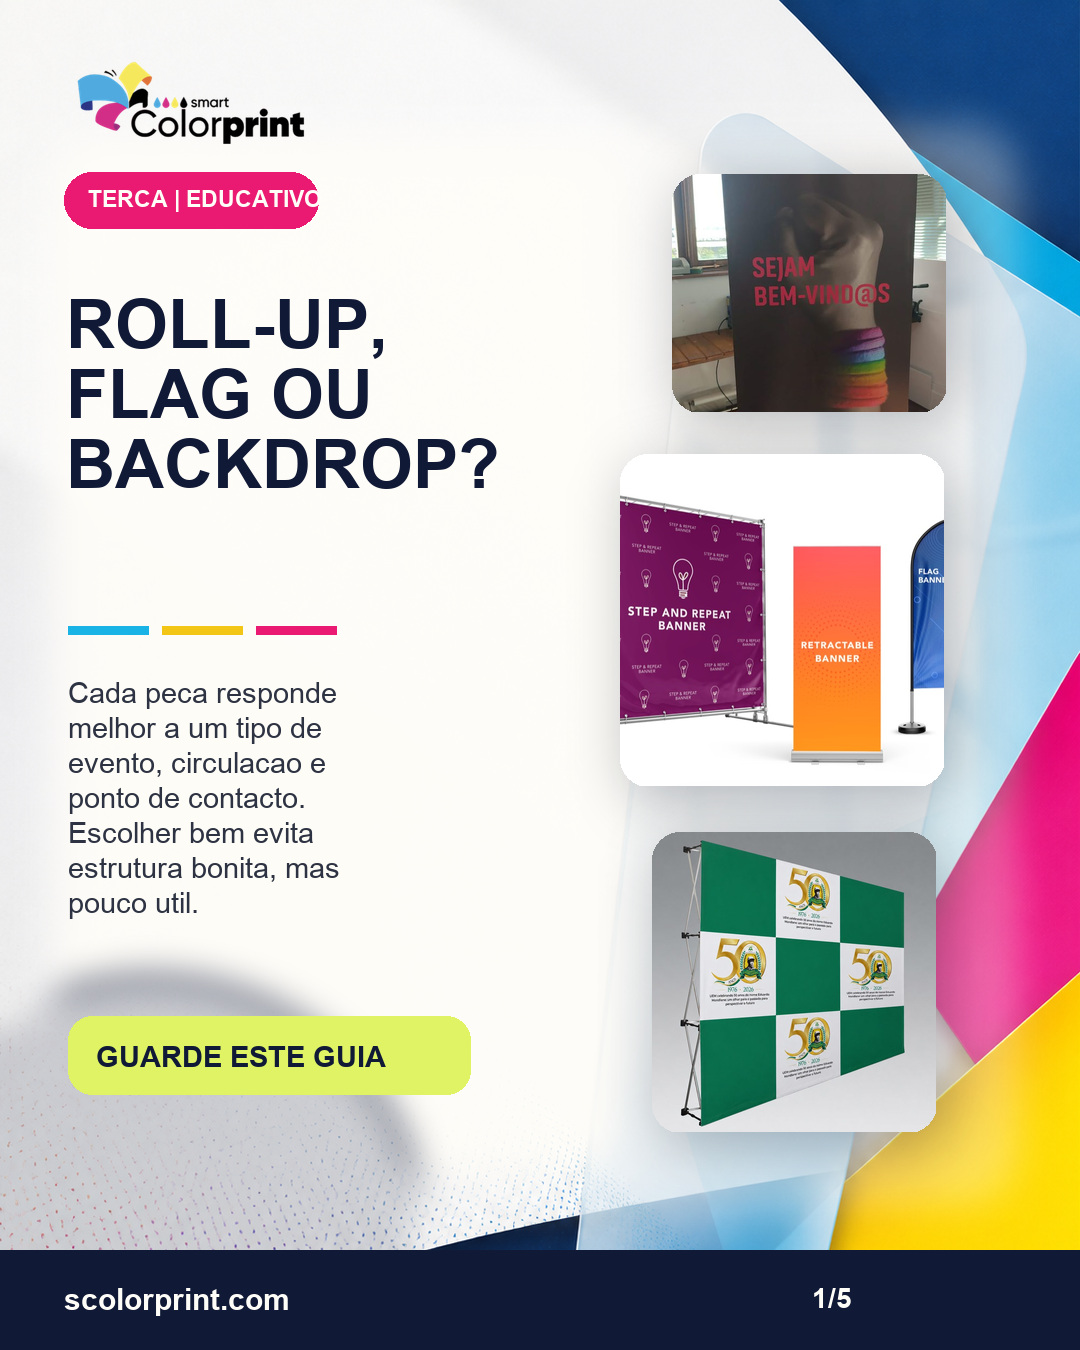
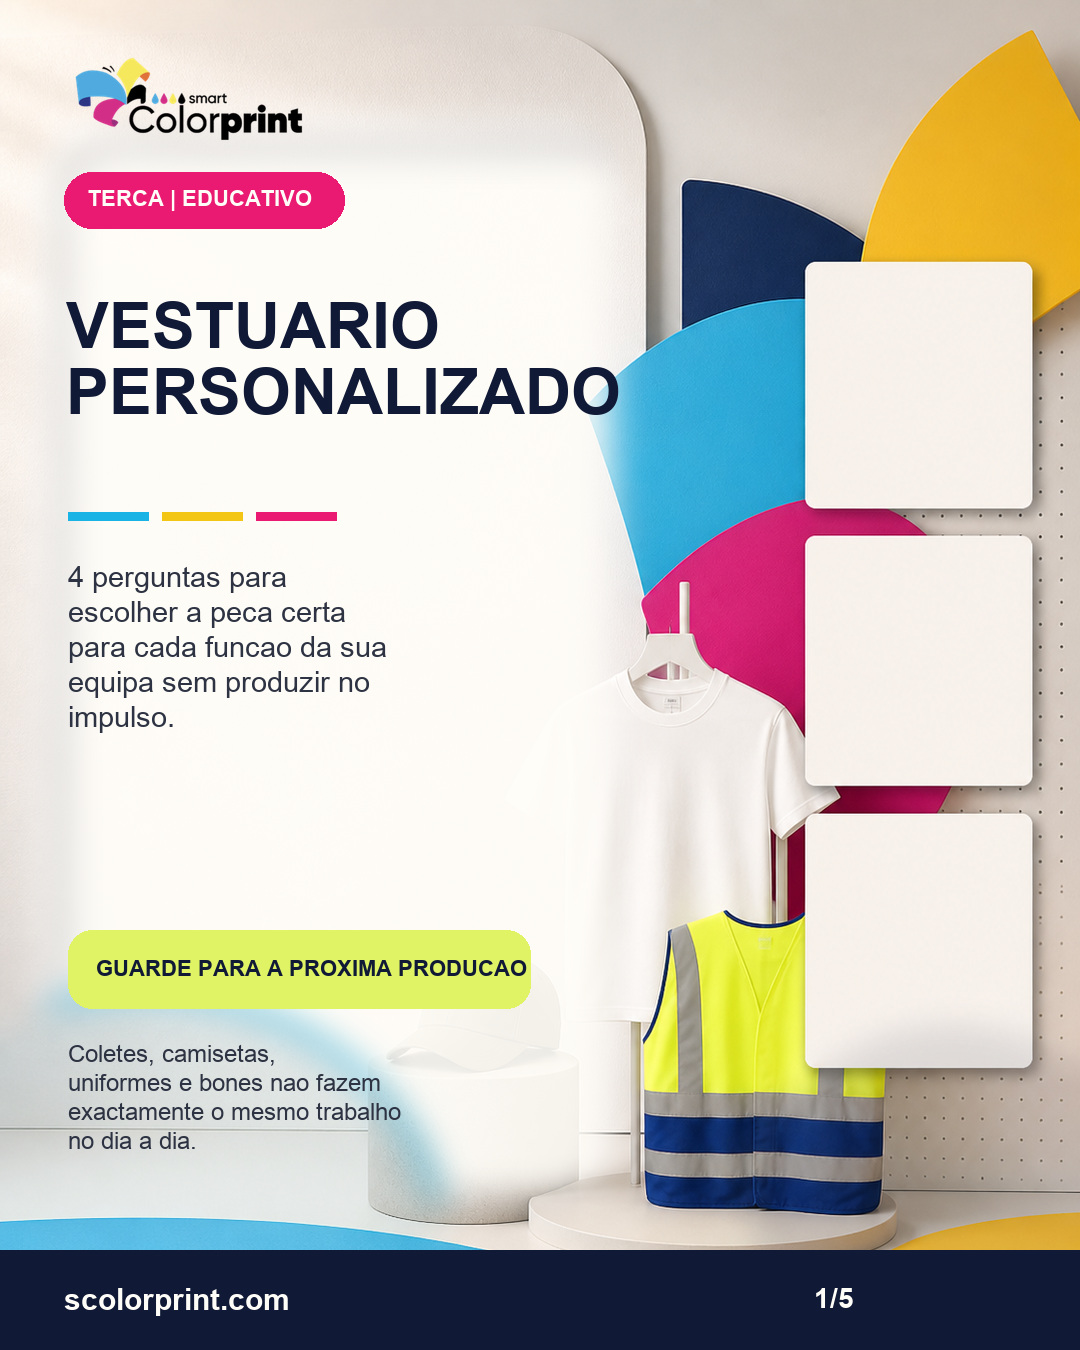
Add 2026-08-11 Smart Color Print Instagram campaign

diff --git a/assets/campanhas/automacao-smart-color-print/2026-08-11/render.py b/assets/campanhas/automacao-smart-color-print/2026-08-11/render.py
@@ -7,11 +7,10 @@ from PIL import Image, ImageDraw, ImageFilter, ImageFont, ImageOps
 ROOT = Path(__file__).resolve().parents[4]
 CAMPAIGN = Path(__file__).resolve().parent
 LOGO = ROOT / "assets" / "logo-scp.png"
-BASE = ROOT / "assets" / "campanhas" / "automacao-smart-color-print" / "2026-08-08" / "base-brand-v1.png"
-ROLLUP = ROOT / "assets" / "trabalhos" / "rollup-evento-institucional.jpg"
-FLAG = ROOT / "assets" / "categorias" / "banners-flag-rollup.jpg"
-BACKDROP = ROOT / "assets" / "trabalhos" / "backdrop-evento-institucional.jpg"
-ROLLUP_ALT = ROOT / "assets" / "trabalhos" / "rollup-conferencia-direitos-humanos.jpg"
+BASE = CAMPAIGN / "base-brand-v1.png"
+VEST = ROOT / "assets" / "categorias" / "coletes-uniformes.jpg"
+TSHIRT = ROOT / "assets" / "mockup-tshirt-real-v2.jpg"
+CAP = ROOT / "assets" / "mockup-cap-real-v2.jpg"
 
 WIDTH = 1080
 HEIGHT = 1350
@@ -23,6 +22,8 @@ YELLOW = "#F3C515"
 OFF_WHITE = "#FFFDF8"
 GRAPHITE = "#2D3342"
 LIME = "#DFF364"
+SOFT_CARD = (255, 253, 248, 232)
+CARD_BORDER = (16, 25, 53, 34)
 
 BOLD = "/System/Library/Fonts/Supplemental/Arial Bold.ttf"
 REGULAR = "/System/Library/Fonts/Supplemental/Arial.ttf"
@@ -40,22 +41,23 @@ def make_canvas() -> Image.Image:
     base = fit_cover(Image.open(BASE), WIDTH, HEIGHT).convert("RGBA")
     haze = Image.new("RGBA", (WIDTH, HEIGHT), (255, 255, 255, 0))
     draw = ImageDraw.Draw(haze)
-    draw.rounded_rectangle((42, 124, 1018, 1204), radius=54, fill=(255, 253, 248, 84))
-    draw.rounded_rectangle((54, 140, 618, 1168), radius=48, fill=(255, 253, 248, 232))
-    draw.ellipse((-120, 980, 420, 1490), fill=(16, 25, 53, 42))
+    draw.rounded_rectangle((42, 124, 612, 1200), radius=56, fill=(255, 253, 248, 236))
+    draw.rounded_rectangle((54, 140, 1026, 1216), radius=62, outline=(16, 25, 53, 18), width=4)
+    draw.ellipse((-160, 992, 442, 1510), fill=(25, 179, 230, 20))
+    draw.ellipse((744, 1014, 1154, 1410), fill=(16, 25, 53, 28))
     haze = haze.filter(ImageFilter.GaussianBlur(18))
     return Image.alpha_composite(base, haze)
 
 
-def add_shadow(base: Image.Image, bounds: tuple[int, int, int, int], radius: int = 30, blur: int = 26) -> Image.Image:
+def add_shadow(base: Image.Image, bounds: tuple[int, int, int, int], radius: int = 28, blur: int = 24) -> Image.Image:
     shadow = Image.new("RGBA", base.size, (0, 0, 0, 0))
-    ImageDraw.Draw(shadow).rounded_rectangle(bounds, radius=radius, fill=(10, 18, 39, 72))
+    ImageDraw.Draw(shadow).rounded_rectangle(bounds, radius=radius, fill=(10, 18, 39, 76))
     shadow = shadow.filter(ImageFilter.GaussianBlur(blur))
     return Image.alpha_composite(base, shadow)
 
 
 def photo_card(base: Image.Image, source_path: Path, x: int, y: int, width: int, height: int, radius: int = 28) -> Image.Image:
-    base = add_shadow(base, (x + 10, y + 12, x + width + 10, y + height + 12), radius=radius, blur=28)
+    base = add_shadow(base, (x + 10, y + 12, x + width + 10, y + height + 12), radius=radius, blur=26)
     card = fit_cover(Image.open(source_path), width, height).convert("RGBA")
     mask = Image.new("L", (width, height), 0)
     ImageDraw.Draw(mask).rounded_rectangle((0, 0, width, height), radius=radius, fill=255)
@@ -69,21 +71,32 @@ def place_logo(base: Image.Image) -> None:
     logo_width = 248
     logo_height = round(logo.height * logo_width / logo.width)
     logo = logo.resize((logo_width, logo_height), Image.Resampling.LANCZOS)
-    base.alpha_composite(logo, (66, 52))
+    base.alpha_composite(logo, (64, 48))
 
 
 def pill(draw: ImageDraw.ImageDraw, bounds: tuple[int, int, int, int], fill: str, text: str, text_fill: str = OFF_WHITE) -> None:
     draw.rounded_rectangle(bounds, radius=28, fill=fill)
-    draw.text((bounds[0] + 24, bounds[1] + 14), text, font=font(BOLD, 23), fill=text_fill)
+    draw.text((bounds[0] + 24, bounds[1] + 14), text, font=font(BOLD, 22), fill=text_fill)
 
 
 def footer(draw: ImageDraw.ImageDraw, page: str) -> None:
     draw.rectangle((0, 1250, WIDTH, HEIGHT), fill=NAVY)
     draw.text((64, 1282), "scolorprint.com", font=font(BOLD, 30), fill=OFF_WHITE)
-    draw.text((812, 1282), page, font=font(BOLD, 28), fill=OFF_WHITE)
+    draw.text((814, 1282), page, font=font(BOLD, 28), fill=OFF_WHITE)
 
 
-def wrapped(draw: ImageDraw.ImageDraw, text: str, x: int, y: int, width_chars: int, size: int, fill: str, *, bold: bool = False, spacing: int = 7) -> int:
+def wrapped(
+    draw: ImageDraw.ImageDraw,
+    text: str,
+    x: int,
+    y: int,
+    width_chars: int,
+    size: int,
+    fill: str,
+    *,
+    bold: bool = False,
+    spacing: int = 7,
+) -> int:
     family = BOLD if bold else REGULAR
     block = textwrap.fill(text, width=width_chars)
     draw.multiline_text((x, y), block, font=font(family, size), fill=fill, spacing=spacing)
@@ -96,146 +109,149 @@ def bullets(draw: ImageDraw.ImageDraw, items: list[str], x: int, y: int, width_c
     for index, item in enumerate(items):
         color = colors[index % len(colors)]
         draw.rounded_rectangle((x, cursor + 8, x + 28, cursor + 36), radius=9, fill=color)
-        cursor = wrapped(draw, item, x + 50, cursor, width_chars, size, GRAPHITE, spacing=8) + 20
+        cursor = wrapped(draw, item, x + 50, cursor, width_chars, size, GRAPHITE, spacing=7) + 22
     return cursor
 
 
 def info_card(draw: ImageDraw.ImageDraw, bounds: tuple[int, int, int, int], title: str, body: str) -> None:
-    draw.rounded_rectangle(bounds, radius=28, fill=(255, 253, 248, 224), outline=(16, 25, 53, 34), width=2)
-    draw.text((bounds[0] + 24, bounds[1] + 22), title, font=font(BOLD, 29), fill=NAVY)
-    wrapped(draw, body, bounds[0] + 24, bounds[1] + 74, 28, 22, GRAPHITE, spacing=6)
+    draw.rounded_rectangle(bounds, radius=28, fill=SOFT_CARD, outline=CARD_BORDER, width=2)
+    draw.text((bounds[0] + 24, bounds[1] + 20), title, font=font(BOLD, 28), fill=NAVY)
+    wrapped(draw, body, bounds[0] + 24, bounds[1] + 70, 30, 21, GRAPHITE, spacing=6)
 
 
-def combo_block(draw: ImageDraw.ImageDraw, y: int, title: str, body: str, accent: str) -> None:
-    draw.rounded_rectangle((66, y, 592, y + 162), radius=28, fill=(255, 253, 248, 230), outline=(16, 25, 53, 32), width=2)
-    draw.rounded_rectangle((86, y + 24, 222, y + 66), radius=20, fill=accent)
-    draw.text((104, y + 34), title, font=font(BOLD, 22), fill=NAVY)
-    wrapped(draw, body, 88, y + 82, 38, 22, GRAPHITE, spacing=6)
+def checklist_card(draw: ImageDraw.ImageDraw, y: int, title: str, body: str, accent: str) -> None:
+    draw.rounded_rectangle((66, y, 592, y + 148), radius=28, fill=SOFT_CARD, outline=CARD_BORDER, width=2)
+    draw.rounded_rectangle((88, y + 24, 242, y + 62), radius=18, fill=accent)
+    draw.text((108, y + 33), title, font=font(BOLD, 19), fill=OFF_WHITE if accent == NAVY else NAVY)
+    wrapped(draw, body, 90, y + 76, 40, 19, GRAPHITE, spacing=5)
 
 
 def slide_one() -> Image.Image:
     canvas = make_canvas()
-    canvas = photo_card(canvas, ROLLUP, 672, 174, 274, 238)
-    canvas = photo_card(canvas, FLAG, 620, 454, 324, 332)
-    canvas = photo_card(canvas, BACKDROP, 652, 832, 284, 300)
     draw = ImageDraw.Draw(canvas)
     place_logo(canvas)
-    pill(draw, (64, 172, 318, 228), MAGENTA, "TERCA | EDUCATIVO")
+    pill(draw, (64, 172, 344, 228), MAGENTA, "TERCA | EDUCATIVO")
     draw.multiline_text(
-        (66, 286),
-        "ROLL-UP,\nFLAG OU\nBACKDROP?",
-        font=font(BOLD, 68),
+        (66, 290),
+        "VESTUARIO\nPERSONALIZADO",
+        font=font(BOLD, 64),
         fill=NAVY,
         spacing=8,
     )
-    draw.rectangle((68, 626, 148, 634), fill=CYAN)
-    draw.rectangle((162, 626, 242, 634), fill=YELLOW)
-    draw.rectangle((256, 626, 336, 634), fill=MAGENTA)
+    draw.rectangle((68, 512, 148, 520), fill=CYAN)
+    draw.rectangle((162, 512, 242, 520), fill=YELLOW)
+    draw.rectangle((256, 512, 336, 520), fill=MAGENTA)
     wrapped(
         draw,
-        "Cada peca responde melhor a um tipo de evento, circulacao e ponto de contacto. Escolher bem evita estrutura bonita, mas pouco util.",
+        "4 perguntas para escolher a peca certa para cada funcao da sua equipa sem produzir no impulso.",
         68,
-        676,
+        560,
         24,
         29,
         GRAPHITE,
         spacing=8,
     )
-    draw.rounded_rectangle((68, 1016, 470, 1094), radius=24, fill=LIME)
-    draw.text((96, 1040), "GUARDE ESTE GUIA", font=font(BOLD, 29), fill=NAVY)
+    draw.rounded_rectangle((68, 930, 530, 1008), radius=24, fill=LIME)
+    draw.text((96, 956), "GUARDE PARA A PROXIMA PRODUCAO", font=font(BOLD, 22), fill=NAVY)
+    wrapped(
+        draw,
+        "Coletes, camisetas, uniformes e bones nao fazem exactamente o mesmo trabalho no dia a dia.",
+        68,
+        1040,
+        28,
+        24,
+        GRAPHITE,
+        spacing=7,
+    )
     footer(draw, "1/5")
     return canvas
 
 
 def slide_two() -> Image.Image:
     canvas = make_canvas()
-    canvas = photo_card(canvas, ROLLUP_ALT, 632, 196, 328, 902)
+    canvas = photo_card(canvas, VEST, 646, 204, 286, 868)
     draw = ImageDraw.Draw(canvas)
     place_logo(canvas)
-    pill(draw, (64, 172, 218, 228), NAVY, "PECA 1")
-    draw.multiline_text((66, 286), "ROLL-UP", font=font(BOLD, 68), fill=NAVY, spacing=8)
+    pill(draw, (64, 172, 254, 228), NAVY, "PERGUNTA 1")
+    draw.multiline_text((66, 286), "QUEM PRECISA\nDE SER VISTO\nMAIS RAPIDO?", font=font(BOLD, 54), fill=NAVY, spacing=8)
     bullets(
         draw,
         [
-            "Funciona bem em recepcao, entrada, ponto de atendimento e zonas onde a mensagem precisa de ficar fixa.",
-            "E uma boa escolha quando quer apresentar servico, oferta ou orientacao sem ocupar muita area no chao.",
-            "Costuma render melhor em interior ou em eventos com circulacao mais controlada.",
+            "Coletes entram bem quando a prioridade e visibilidade imediata em terreno, obra, logistica ou controlo de acesso.",
+            "Tambem ajudam a distinguir visitantes, equipas tecnicas e apoio operacional sem muita leitura.",
+            "Mais movimento e distancia costumam pedir esta peca.",
         ],
         68,
-        500,
+        540,
         22,
-        25,
+        22,
         [CYAN, MAGENTA, YELLOW],
     )
-    info_card(draw, (64, 968, 548, 1196), "Use quando", "Precisa de uma mensagem vertical, legivel e facil de mover entre pontos de apoio.")
+    info_card(draw, (64, 978, 548, 1198), "Peca indicada", "Coletes personalizados fazem sentido quando a identificacao precisa aparecer antes da conversa.")
     footer(draw, "2/5")
     return canvas
 
 
 def slide_three() -> Image.Image:
     canvas = make_canvas()
-    canvas = photo_card(canvas, FLAG, 626, 196, 334, 906)
+    canvas = photo_card(canvas, TSHIRT, 642, 210, 292, 860)
     draw = ImageDraw.Draw(canvas)
     place_logo(canvas)
-    pill(draw, (64, 172, 206, 228), CYAN, "PECA 2", text_fill=NAVY)
-    draw.multiline_text((66, 286), "BANNER\nFLAG", font=font(BOLD, 68), fill=NAVY, spacing=8)
+    pill(draw, (64, 172, 254, 228), CYAN, "PERGUNTA 2", text_fill=NAVY)
+    draw.multiline_text((66, 286), "QUEM VAI\nUSAR A PECA\nPOR MAIS HORAS?", font=font(BOLD, 54), fill=NAVY, spacing=8)
     bullets(
         draw,
         [
-            "Ajuda mais quando a marca precisa de ser notada a distancia, em exterior ou em corredores com movimento.",
-            "O formato alto e mais dinamico costuma destacar entradas, promocoes e activacoes com fluxo continuo.",
-            "Antes de produzir, vale rever vento, base de apoio e espaco disponivel para nao perder estabilidade.",
+            "Camisetas e uniformes rendem melhor quando a equipa passa muitas horas em atendimento, loja, entrega ou promocao.",
+            "Aqui conforto, corte e leitura do logotipo contam tanto quanto a cor da marca.",
+            "Se a peca vai circular todos os dias, pense no tecido e na combinacao real de uso.",
         ],
         68,
-        500,
+        540,
         22,
-        25,
+        22,
         [YELLOW, MAGENTA, CYAN],
     )
-    info_card(draw, (64, 980, 548, 1188), "Use quando", "Quer chamar atencao mais cedo e puxar o olhar para o seu ponto ou stand.")
+    info_card(draw, (64, 978, 548, 1198), "Peca indicada", "A peca principal deve aguentar uso repetido sem perder presenca nem legibilidade.")
     footer(draw, "3/5")
     return canvas
 
 
 def slide_four() -> Image.Image:
     canvas = make_canvas()
-    canvas = photo_card(canvas, BACKDROP, 630, 198, 330, 902)
+    canvas = photo_card(canvas, CAP, 646, 222, 284, 842)
     draw = ImageDraw.Draw(canvas)
     place_logo(canvas)
-    pill(draw, (64, 172, 210, 228), YELLOW, "PECA 3", text_fill=NAVY)
-    draw.multiline_text((66, 286), "BACKDROP", font=font(BOLD, 68), fill=NAVY, spacing=8)
+    pill(draw, (64, 172, 254, 228), YELLOW, "PERGUNTA 3", text_fill=NAVY)
+    draw.multiline_text((66, 286), "A MARCA VAI\nCIRCULAR MAIS\nAO AR LIVRE?", font=font(BOLD, 54), fill=NAVY, spacing=8)
     bullets(
         draw,
         [
-            "Resolve melhor quando a marca precisa ocupar o fundo de fotos, palco, painel de imprensa ou zona principal.",
-            "E util para criar presenca mais forte, repeticao de marca e enquadramento limpo em registos visuais.",
-            "Pede mais area e montagem, por isso vale confirmar medidas e distancia de uso antes da producao.",
+            "Bone personalizado entra bem em activacoes, promotores, entregas e equipas externas.",
+            "Ajuda a reforcar a marca quando a equipa esta em movimento ou exposta ao sol.",
+            "Na maioria dos casos funciona melhor como complemento da peca principal.",
         ],
         68,
-        500,
+        540,
         22,
-        25,
+        22,
         [MAGENTA, CYAN, YELLOW],
     )
-    info_card(draw, (64, 972, 548, 1198), "Use quando", "Quer transformar o fundo num elemento de marca e nao apenas num suporte lateral.")
+    info_card(draw, (64, 978, 548, 1198), "Peca indicada", "O bone soma presenca e repeticao visual quando a equipa precisa de circular mais.")
     footer(draw, "4/5")
     return canvas
 
 
 def slide_five() -> Image.Image:
     canvas = make_canvas()
-    canvas = photo_card(canvas, ROLLUP, 644, 198, 264, 214)
-    canvas = photo_card(canvas, FLAG, 610, 454, 318, 268)
-    canvas = photo_card(canvas, BACKDROP, 642, 764, 276, 292)
     draw = ImageDraw.Draw(canvas)
     place_logo(canvas)
-    pill(draw, (64, 172, 312, 228), MAGENTA, "GUIA RAPIDO")
-    draw.multiline_text((66, 286), "ESCOLHA PELO\nTIPO DE EVENTO", font=font(BOLD, 58), fill=NAVY, spacing=8)
-    combo_block(draw, 610, "Roll-up", "Para recepcao, atendimento e mensagem principal perto do cliente.", CYAN)
-    combo_block(draw, 778, "Banner flag", "Para exterior, corredores e pontos que precisam ser vistos antes.", YELLOW)
-    combo_block(draw, 946, "Backdrop", "Para fotos, palco e zonas onde o fundo tambem precisa vender a marca.", MAGENTA)
-    draw.rounded_rectangle((66, 1126, 590, 1194), radius=24, fill=NAVY)
-    draw.text((92, 1146), "Comente: qual usa mais?", font=font(BOLD, 24), fill=OFF_WHITE)
+    pill(draw, (64, 172, 404, 228), MAGENTA, "ANTES DE PRODUZIR")
+    draw.multiline_text((66, 286), "FECHE ESTAS\n4 DECISOES", font=font(BOLD, 62), fill=NAVY, spacing=8)
+    checklist_card(draw, 520, "Funcao", "Quem precisa de ser identificado primeiro: atendimento, terreno, logistica ou activacao?", CYAN)
+    checklist_card(draw, 690, "Rotina", "A peca vai trabalhar o dia todo ou apenas reforcar uma accao especifica?", YELLOW)
+    checklist_card(draw, 860, "Leitura", "Cor, tecido e area de impressao deixam o logotipo legivel a distancia normal?", MAGENTA)
+    checklist_card(draw, 1030, "Conjunto", "A equipa precisa de uma peca principal sozinha ou de um conjunto com bone ou colete?", NAVY)
     footer(draw, "5/5")
     return canvas
 
